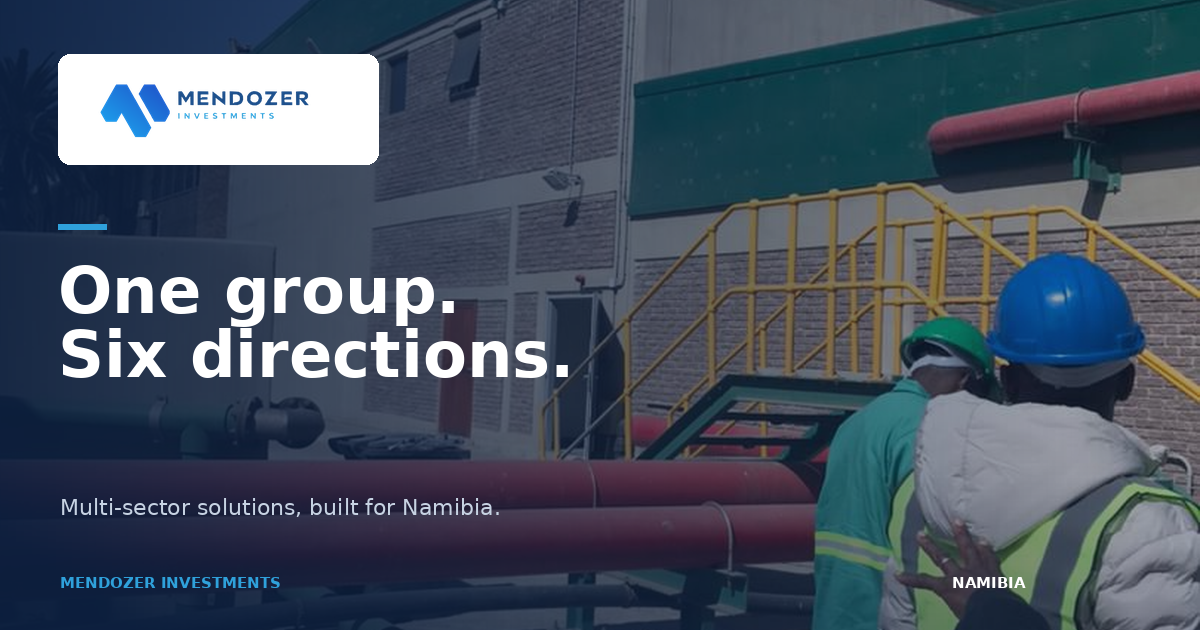
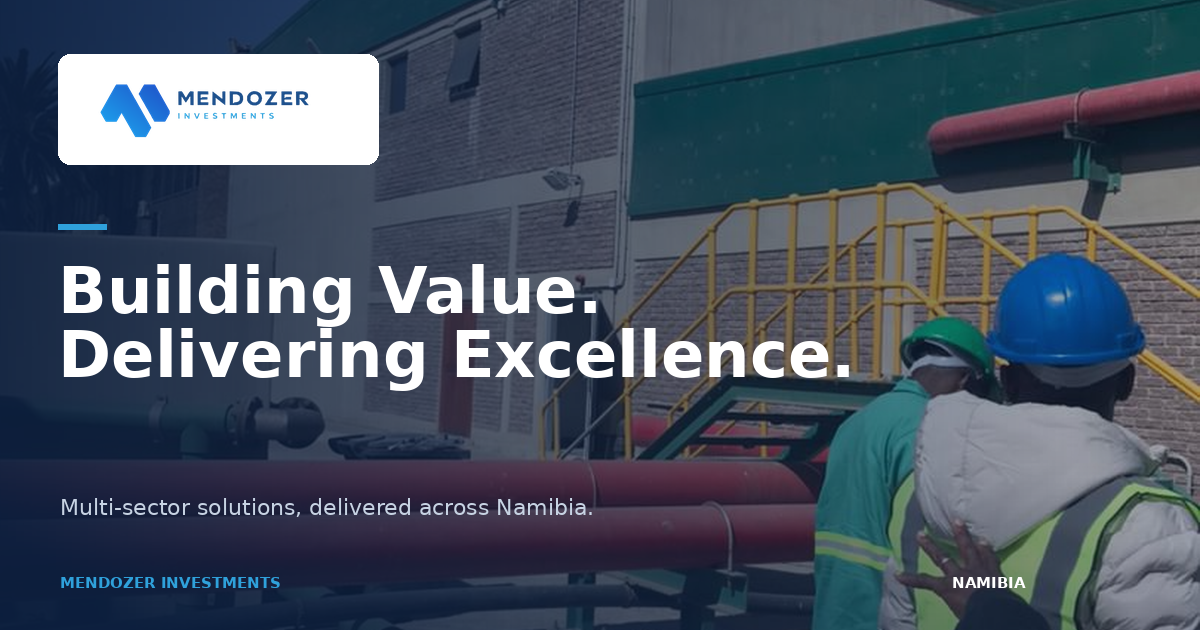
copy(brand): replace tagline with 'Building Value. Delivering Excellence.' and align all copy
- Home hero: tagline title, value-led subtext, factual proof badge, 'Explore the sectors' CTA
- Follow section, menu overlay, footer statement: tagline + accountable-team language
- 'Directions' counting device removed from all headline surfaces (sectors language instead)
- Interior pages aligned: sectors hub, services, updates, work, about, brand specimen, office post
- llms.txt rewritten without counting device; home OG image regenerated with tagline
- Fix pre-existing a11y contrast regression on /community related-reading line (dark text on navy)
- Fix stale WhatsApp test to assert the approved 085 777 7077 wa.me surface
- QA gates updated: check-content asserts tagline; responsive spec asserts new hero title

Changed region(s): [[0.0308, 0.4222, 0.7092, 0.6333], [0.2467, 0.7841, 0.4933, 0.8143]]

diff --git a/src/content/site-content.ts b/src/content/site-content.ts
@@ -113,14 +113,14 @@ export const siteContent = {
   ],
   hero: {
     eyebrow: "Mendozer Investments",
-    title: "One group for the work ahead.",
-    subtext: "Six working directions. One accountable group. Construction, technology, cooling, logistics, energy and tourism, delivered across Namibia since 2009.",
+    title: "Building Value. Delivering Excellence.",
+    subtext: "Construction, technology, cooling, logistics, energy and tourism, delivered across Namibia since 2009, with one accountable team behind every brief.",
     primaryCta: { label: "Start an enquiry", href: "/contact" },
-    secondaryCta: { label: "Explore directions", href: "/#sectors" },
-    proofBadge: "CC/2009/2399 / Since 2009 / Six sectors",
+    secondaryCta: { label: "Explore the sectors", href: "/#sectors" },
+    proofBadge: "CC/2009/2399 / Since 2009 / Registered in Namibia",
     followEyebrow: "The Mendozer group",
-    followTitle: "One accountable group across six working directions.",
-    followBody: "Construction, technology, cooling, logistics, energy and tourism are connected by one operational backbone. Start with the sector closest to the work in front of you, and bring the group in when the brief crosses disciplines. Every direction carries the same standard: real site context, verified records, and work delivered with care.",
+    followTitle: "One accountable team behind the value, from first brief to delivered work.",
+    followBody: "Construction, technology, cooling, logistics, energy and tourism sit under one accountable team, so the value agreed in the brief is the value delivered on site. Start with the sector closest to the work in front of you, and bring the wider team in when the brief crosses disciplines. Every engagement carries the same standard: real site context, verified records, and work delivered with care.",
     media: {
       src: "/images/projects/construction/road-works-2.jpg",
       alt: "A site team beside active infrastructure work",
@@ -131,7 +131,7 @@ export const siteContent = {
   },
   sectorHub: {
     eyebrow: "Mendozer sectors",
-    title: "Choose the right working direction.",
+    title: "Choose the right sector.",
     body: "Start with the sector closest to the work in front of you. If the scope crosses disciplines, use the group contact route.",
     hero: {
       src: "/images/projects/construction/road-works-2.jpg",
@@ -180,8 +180,8 @@ export const siteContent = {
   home: {
     introduction: {
       eyebrow: "The Mendozer group",
-      title: "Six sectors. One group behind them.",
-      body: "Choose the working direction closest to the need. If the brief crosses more than one area, begin with one accountable group.",
+      title: "The sectors that build the value.",
+      body: "Choose the sector closest to the need. If the brief crosses more than one area, begin with one accountable group.",
       media: {
         src: "/images/projects/technology/tower-full-view.jpg",
         alt: "A communications tower above a work site",
@@ -193,12 +193,12 @@ export const siteContent = {
     sectorIntro: {
       eyebrow: "Our sectors",
       title: "Find the right starting point.",
-      body: "Six working directions, one clear route to the group.",
+      body: "Each sector leads to the same accountable team and the same standard.",
     },
     connective: {
       eyebrow: "A connected view",
       title: "One group keeps the whole brief in view.",
-      body: "A site, system, facility and supply route can be connected. Start with the need, then bring the right direction into the conversation.",
+      body: "A site, system, facility and supply route can be connected. Start with the need, then bring the right sector into the conversation.",
     },
     faq: {
       eyebrow: "Starting point",
@@ -207,7 +207,7 @@ export const siteContent = {
       items: [
         {
           question: "Which sector should I choose?",
-          answer: "Choose the working direction closest to the enquiry. If the work crosses more than one area, select Group enquiry in the contact form.",
+          answer: "Choose the sector closest to the enquiry. If the work crosses more than one area, select Group enquiry in the contact form.",
         },
         {
           question: "What should I include in an enquiry?",
@@ -239,7 +239,7 @@ export const siteContent = {
   about: {
     eyebrow: "About the group",
     title: "One group for work that crosses disciplines.",
-    body: "Mendozer Investments brings six working directions into one group conversation for partners, institutions and commercial enquiries.",
+    body: "Mendozer Investments builds and delivers across construction, technology, cooling, logistics, energy and tourism for partners, institutions and commercial enquiries.",
     hero: {
       src: "/images/projects/logistics/crew-roadside.jpg",
       alt: "A work crew gathered beside a road",
@@ -324,7 +324,7 @@ export const siteContent = {
     email: "contact@mendozer.com",
   },
   footer: {
-    statement: "Multi-sector direction, one group.",
+    statement: "Building Value. Delivering Excellence.",
     registrationLabel: "CC/2009/2399",
     vatLabel: "VAT 04948459-015",
   },
@@ -546,7 +546,7 @@ export const sectors: Sector[] = [
     eyebrow: "Sector 06",
     description: "Land, access, and rural operating settings across Namibian landscape.",
     metaDescription:
-      "Land, access, and rural operating settings across the Namibian landscape, handled with the practical care Mendozer brings to every working direction.",
+      "Land, access, and rural operating settings across the Namibian landscape, handled with the practical care Mendozer brings to every sector.",
     glyph: "landscape",
     hero: {
       src: "/images/projects/tourism/IMG-20260808-WA0055.jpg",
@@ -709,7 +709,7 @@ export const legalPages = {
       {
         heading: "Information on this website",
         paragraphs: [
-          "Content is provided to help visitors identify a relevant Mendozer working direction and begin an enquiry. Service, project, and availability detail should be confirmed directly with the group.",
+          "Content is provided to help visitors identify a relevant Mendozer sector and begin an enquiry. Service, project, and availability detail should be confirmed directly with the group.",
           "Mendozer may update website information as approved material becomes available.",
         ],
       },

diff --git a/src/components/SiteFooter.tsx b/src/components/SiteFooter.tsx
@@ -54,7 +54,7 @@ export function SiteFooter() {
                 <Link href="/community">Community</Link>
                 <Link href="/contact">Send an enquiry</Link>
               </FooterAccordion>
-              <FooterAccordion title="Directions">
+              <FooterAccordion title="Sectors">
                 <Link href="/services">All services</Link>
                 {sectors.map((item) => (
                   <Link href={`/sectors/${item.slug}`} key={item.slug}>{item.shortTitle}</Link>
@@ -71,12 +71,12 @@ export function SiteFooter() {
 
           {kind === "sector" ? (
             <>
-              <FooterAccordion title={sector?.shortTitle ?? "This direction"} defaultOpen>
-                <Link href="/contact">Enquire on this direction</Link>
+              <FooterAccordion title={sector?.shortTitle ?? "This sector"} defaultOpen>
+                <Link href="/contact">Enquire on this sector</Link>
                 <Link href="/work">Work context</Link>
-                <Link href="/sectors">All directions</Link>
+                <Link href="/sectors">All sectors</Link>
               </FooterAccordion>
-              <FooterAccordion title="Other directions">
+              <FooterAccordion title="Other sectors">
                 {sectors.filter((item) => item.slug !== sector?.slug).map((item) => (
                   <Link href={`/sectors/${item.slug}`} key={item.slug}>{item.shortTitle}</Link>
                 ))}
@@ -113,7 +113,7 @@ export function SiteFooter() {
                 <Link href="/compliance">Public records</Link>
                 <Link href="/privacy">Privacy</Link>
               </FooterAccordion>
-              <FooterAccordion title="Directions">
+              <FooterAccordion title="Sectors">
                 {sectors.map((item) => (
                   <Link href={`/sectors/${item.slug}`} key={item.slug}>{item.shortTitle}</Link>
                 ))}
@@ -159,7 +159,7 @@ export function SiteFooter() {
                 <Link href="/community">Community</Link>
                 <Link href="/contact">Contact</Link>
               </FooterAccordion>
-              <FooterAccordion title="Directions">
+              <FooterAccordion title="Sectors">
                 {sectors.map((item) => (
                   <Link href={`/sectors/${item.slug}`} key={item.slug}>{item.shortTitle}</Link>
                 ))}

diff --git a/tests/responsive.spec.ts b/tests/responsive.spec.ts
@@ -54,16 +54,16 @@ test("mobile and desktop home layouts do not create horizontal overflow", async 
   }
 });
 
-test("hero uses supplied-photo motion and one direct main sentence", async ({ page }) => {
+test("hero uses supplied-photo motion and the approved tagline", async ({ page }) => {
   await page.setViewportSize({ width: 1440, height: 1000 });
   await page.goto("/", { waitUntil: "domcontentloaded" });
 
-  await expect(page.locator(".home-hero h1")).toHaveText("One group for the work ahead.");
+  await expect(page.locator(".home-hero h1")).toHaveText("Building Value. Delivering Excellence.");
   await expect(page.locator(".home-hero .eyebrow")).toHaveCount(0);
   await expect(page.locator(".home-hero__supporting")).toHaveCount(0);
   await expect(page.locator(".home-hero video source[type='video/mp4']")).toHaveAttribute("src", "/videos/hero/desert-loop.mp4");
   await expect(page.locator(".home-hero__navigator")).toHaveCount(0);
-  await expect(page.locator(".home-hero").getByRole("link", { name: "Explore directions" })).toBeVisible();
+  await expect(page.locator(".home-hero").getByRole("link", { name: "Explore the sectors" })).toBeVisible();
 });
 
 test("sector directory behaves as an accessible tabbed explorer on desktop", async ({ page }) => {
@@ -257,9 +257,13 @@ test("footer uses page-type accordions and a full-width mark band", async ({ pag
   await expect(page.locator(".site-footer__mark-band")).toBeVisible();
 });
 
-test("WhatsApp remains absent until an approved public number is configured", async ({ page }) => {
+test("WhatsApp uses the approved public line from site config", async ({ page }) => {
   await page.goto("/", { waitUntil: "domcontentloaded" });
-  await expect(page.getByRole("link", { name: "WhatsApp" })).toHaveCount(0);
+  const whatsapp = page.locator(".site-footer__whatsapp");
+  await expect(whatsapp).toBeVisible();
+  await expect(whatsapp).toHaveAttribute("href", "https://wa.me/264857777077");
+  // The floating utility WhatsApp control stays env-gated and absent without NEXT_PUBLIC_WHATSAPP_NUMBER.
+  await expect(page.locator(".utility-widget--whatsapp")).toHaveCount(0);
 });
 
 test("utility controls are isolated while the full-screen menu is open", async ({ page }) => {

diff --git a/src/components/SiteHeader.tsx b/src/components/SiteHeader.tsx
@@ -238,7 +238,7 @@ export function SiteHeader() {
               {activeTab === "sectors" ? (
                 <section aria-labelledby="mendozer-menu-tab-sectors" className="site-menu__panel site-menu__panel--sectors" id="mendozer-menu-panel-sectors" role="tabpanel">
                   <div className="site-menu__sectors-heading">
-                    <p className="eyebrow eyebrow--light">Six working directions</p>
+                    <p className="eyebrow eyebrow--light">Our sectors</p>
                     <p>Start with the closest fit. Use the group contact route when the work crosses disciplines.</p>
                   </div>
                   <div className="site-menu__sector-list">
@@ -269,7 +269,7 @@ export function SiteHeader() {
                   <div>
                     <p className="eyebrow eyebrow--light">Start a conversation</p>
                     <h2>Bring the right work into focus.</h2>
-                    <p>Tell the group what needs attention and choose the closest sector. The contact route can carry a group enquiry when more than one direction is involved.</p>
+                    <p>Tell the group what needs attention and choose the closest sector. The contact route can carry a group enquiry when more than one sector is involved.</p>
                     <Link className="button button--light" href="/contact" onClick={closeMenu}>Prepare an enquiry</Link>
                   </div>
                   <dl className="site-menu__contact-details">
@@ -283,7 +283,7 @@ export function SiteHeader() {
             </div>
 
             <div className="site-container site-menu__footer">
-              <span>One group. Six directions.</span>
+              <span>Building Value. Delivering Excellence.</span>
               <a href={`mailto:${siteConfig.email}`}>{siteConfig.email}</a>
             </div>
           </div>

diff --git a/src/components/SectorExplorer.tsx b/src/components/SectorExplorer.tsx
@@ -12,7 +12,7 @@ type SectorExplorerProps = {
   label?: string;
 };
 
-export function SectorExplorer({ idPrefix, label = "Mendozer working directions" }: SectorExplorerProps) {
+export function SectorExplorer({ idPrefix, label = "Mendozer sectors" }: SectorExplorerProps) {
   const [activeIndex, setActiveIndex] = useState(0);
   const activeSector = sectors[activeIndex];
 
@@ -65,7 +65,7 @@ export function SectorExplorer({ idPrefix, label = "Mendozer working directions"
             <p className="eyebrow">{activeSector.eyebrow}</p>
             <h3>{activeSector.title}</h3>
             <p>{activeSector.description}</p>
-            <Link aria-label={`Explore this direction: ${activeSector.title}`} className="text-link" href={`/sectors/${activeSector.slug}`}>Explore this direction <ArrowIcon /></Link>
+            <Link aria-label={`Explore this sector: ${activeSector.title}`} className="text-link" href={`/sectors/${activeSector.slug}`}>Explore this sector <ArrowIcon /></Link>
           </div>
         </div>
       </div>
@@ -84,7 +84,7 @@ export function SectorExplorer({ idPrefix, label = "Mendozer working directions"
                 <figcaption>{sector.hero.caption}</figcaption>
               </figure>
               <p>{sector.description}</p>
-              <Link aria-label={`Explore this direction: ${sector.title}`} className="text-link" href={`/sectors/${sector.slug}`}>Explore this direction <ArrowIcon /></Link>
+              <Link aria-label={`Explore this sector: ${sector.title}`} className="text-link" href={`/sectors/${sector.slug}`}>Explore this sector <ArrowIcon /></Link>
             </div>
           </details>
         ))}

diff --git a/src/app/sectors/page.tsx b/src/app/sectors/page.tsx
@@ -9,7 +9,7 @@ import { siteContent } from "@/content/site-content";
 
 export const metadata: Metadata = {
   title: "Sectors",
-  description: "Explore Mendozer Investments working directions across construction, technology, cooling, logistics, energy, tourism, and agriculture in Namibia.",
+  description: "Explore Mendozer Investments sectors across construction, technology, cooling, logistics, energy, tourism, and agriculture in Namibia.",
   alternates: { canonical: "/sectors" },
   openGraph: {
     url: "/sectors",
@@ -27,7 +27,7 @@ export default function SectorsPage() {
         <div className="site-container">
           <SectionHeading
             body="Choose the nearest starting point. If the scope crosses disciplines, use the group contact route and explain the full brief."
-            eyebrow="Six working directions"
+            eyebrow="Mendozer sectors"
             title="Find the closest fit."
           />
           <Reveal delay={100}><SectorExplorer idPrefix="sector-directory" label="Mendozer sector directory" /></Reveal>

diff --git a/src/app/globals.css b/src/app/globals.css
@@ -267,7 +267,9 @@ h3 { font-size: clamp(1.45rem, 2.5vw, 2.4rem); }
 .initiative-card__body > p:last-child { margin-top: var(--space-4); color: var(--color-text-body); font-size: 0.9rem; line-height: 1.7; }
 .community-gallery-section { background: var(--color-bg-dark-primary); }
 .community-gallery { display: grid; grid-template-columns: repeat(3, minmax(0, 1fr)); gap: var(--space-4); }
-.community-gallery__related { margin-top: var(--space-5); color: var(--color-text-light-body, inherit); font-size: 0.92rem; }
+.community-gallery__related { margin-top: var(--space-5); color: var(--color-text-dark-body); font-size: 0.92rem; }
+.community-gallery__related .text-link { color: var(--color-text-dark-primary); }
+.community-gallery__related .text-link:hover { border-color: var(--color-brand-blue); color: var(--color-text-dark-primary); }
 .community-gallery__item { position: relative; min-height: 19rem; overflow: hidden; }
 .community-gallery__item img { object-fit: cover; }
 

diff --git a/src/components/HeroFollowSection.tsx b/src/components/HeroFollowSection.tsx
@@ -57,7 +57,7 @@ export function HeroFollowSection() {
         <div className="hero-follow__copy">
           <p className="eyebrow">{hero.followEyebrow ?? "The Mendozer group"}</p>
           <h2 id="hero-follow-title" className="hero-follow__title">
-            {hero.followTitle ?? "One accountable group across six working directions."}
+            {hero.followTitle ?? "One accountable team behind the value, from first brief to delivered work."}
           </h2>
           <p className="hero-follow__body">
             {hero.followBody ??
@@ -69,7 +69,7 @@ export function HeroFollowSection() {
               <ArrowIcon />
             </Link>
             <Link className="text-link" href="/sectors">
-              <span>See the six directions</span>
+              <span>See the sectors</span>
               <ArrowIcon />
             </Link>
           </div>

diff --git a/src/components/HomeHero.tsx b/src/components/HomeHero.tsx
@@ -50,16 +50,16 @@ export function HomeHero() {
               <ArrowIcon />
             </Link>
             <Link className="hero__cta hero__cta--ghost" href={hero.secondaryCta.href}>
-              <span>Explore directions</span>
+              <span>Explore the sectors</span>
               <ArrowIcon />
             </Link>
           </div>
           {hero.proofBadge ? <p className="hero__proof">{hero.proofBadge}</p> : null}
         </div>
         <div aria-hidden="true" className="hero__meta">
-          <span>One group</span>
+          <span>One team</span>
           <span className="hero__meta-dot" />
-          <span>Six directions</span>
+          <span>Every sector</span>
           <span className="hero__meta-dot" />
           <span>Namibia</span>
         </div>

diff --git a/src/app/services/page.tsx b/src/app/services/page.tsx
@@ -83,10 +83,10 @@ export default function ServicesPage() {
           <SectionHeading
             body="These specialist services work alongside the group sectors. A boundary or building brief can be scoped together with the wider project."
             eyebrow="Part of the wider group"
-            title="One group, several ways to build."
+            title="One standard, several ways to build."
           />
           <Reveal delay={120}>
-            <Link className="text-link" href="/sectors"><span>Explore the six sectors</span><ArrowIcon /></Link>
+            <Link className="text-link" href="/sectors"><span>Explore the sectors</span><ArrowIcon /></Link>
           </Reveal>
         </div>
       </section>

diff --git a/src/app/blog/mendozer-windhoek-satellite-office/page.tsx b/src/app/blog/mendozer-windhoek-satellite-office/page.tsx
@@ -194,7 +194,7 @@ export default function WindhoekSatelliteOfficePage() {
               </p>
               <p>
                 The Windhoek satellite office is one part of a wider footprint. Mendozer Investments works across Namibia, with active projects and teams on
-                sites through the country, supported by the group&apos;s construction, technology, cooling, logistics, energy and tourism directions.
+                sites through the country, supported by the group&apos;s construction, technology, cooling, logistics, energy and tourism sectors.
               </p>
             </Reveal>
           </div>

diff --git a/src/app/about/page.tsx b/src/app/about/page.tsx
@@ -30,7 +30,7 @@ export default function AboutPage() {
           <SectionHeading
             body="A broad group view means each sector can be understood in relation to the people, systems, sites, and logistics around it."
             eyebrow="The Mendozer approach"
-            title="One identity across multiple operating directions."
+            title="One identity across every sector we work."
           />
           <Reveal delay={150}>
             <p className="about-intro__accent">Mendozer Investments CC has operated in Namibia since 2009. The group is led by Managing Director Johannes Negumbo.</p>
